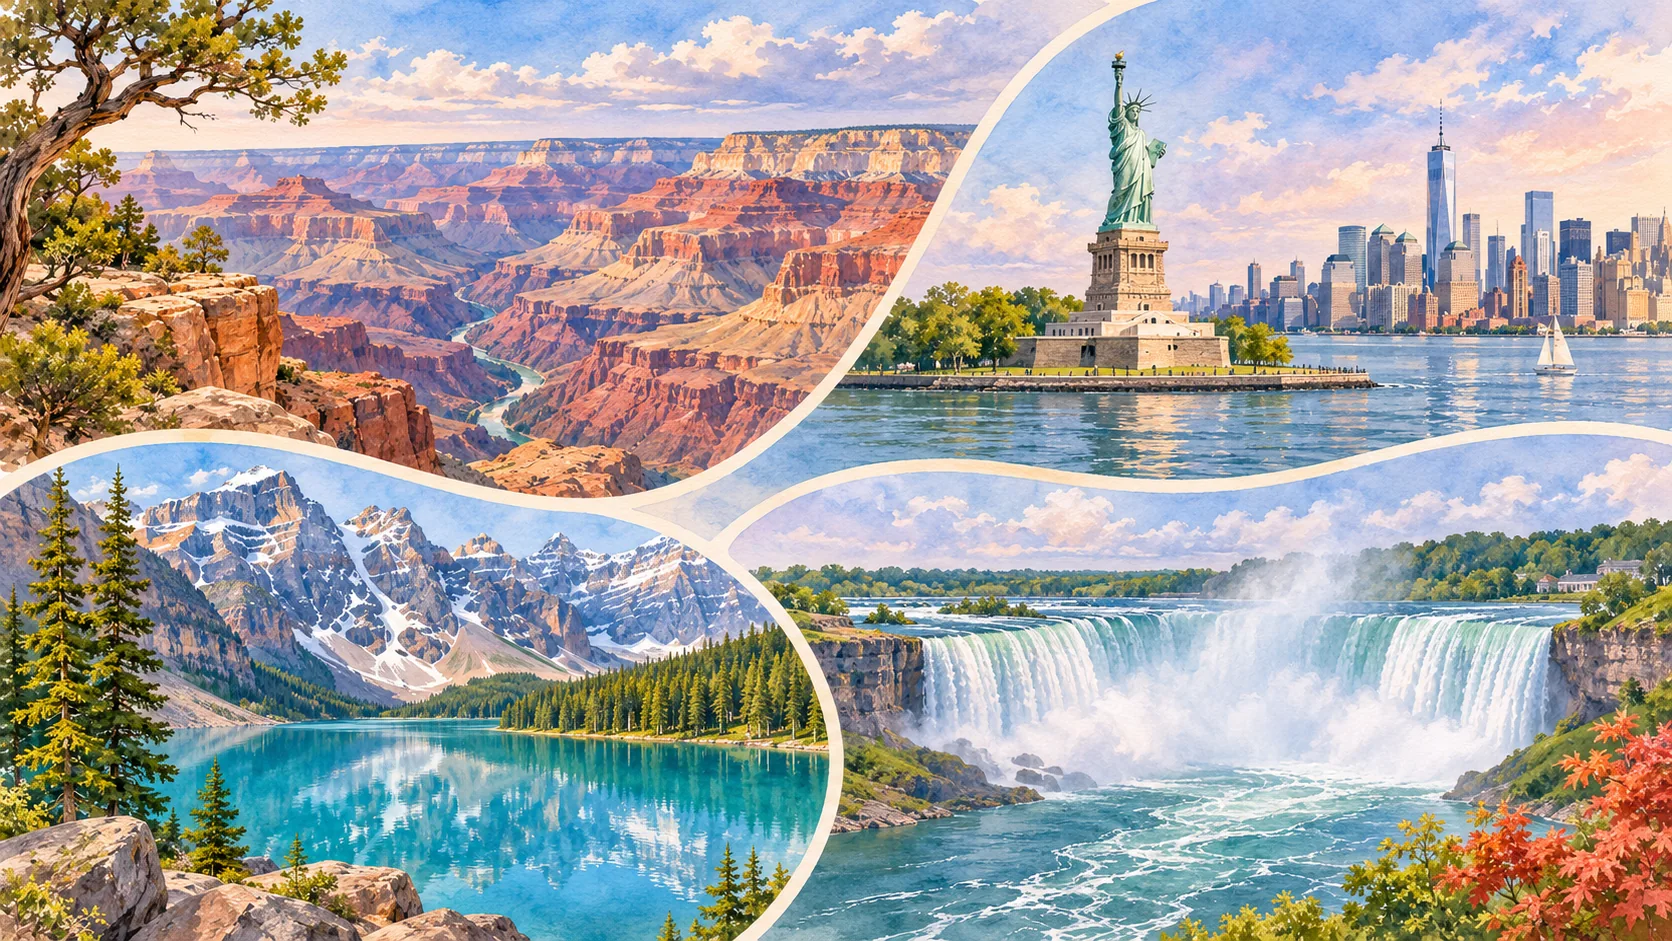
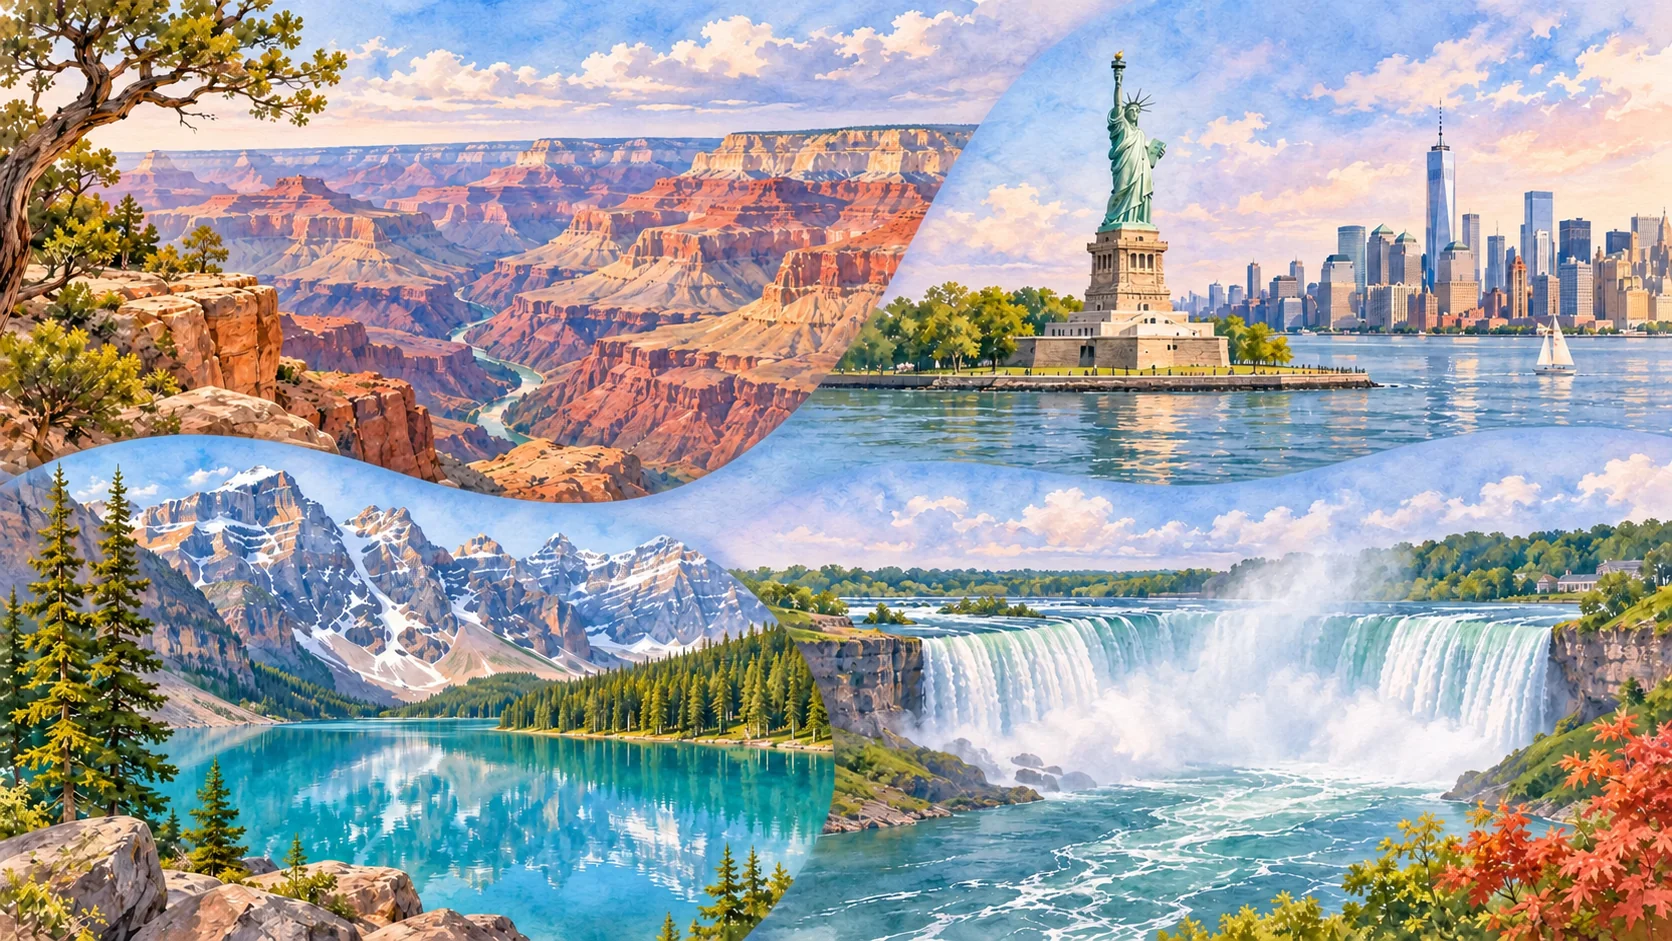
Soften boundaries in the seven homepage regional hero images

diff --git a/assets/js/top.js b/assets/js/top.js
@@ -70,13 +70,13 @@ let themeSets = {};
 // Homepage-only regional montages built from existing approved Country images.
 // First entry is the dominant center; the following four appear around it.
 const heroFiles = [
-  { id: 'asia', labelJa: 'アジア', labelEn: 'ASIA', description: '日本・富士山、インド・タージ・マハル、ベトナム・ハロン湾、ヨルダン・ペトラ', image: 'assets/images/top/regions/top-asia.webp?v=20261101-four-scenes-1' },
-  { id: 'europe', labelJa: 'ヨーロッパ', labelEn: 'EUROPE', description: 'ギリシャ・サントリーニ、イタリア・ヴェネツィア、スイス・アルプス、フランス・パリ', image: 'assets/images/top/regions/top-europe.webp?v=20261101-four-scenes-1' },
-  { id: 'africa', labelJa: 'アフリカ', labelEn: 'AFRICA', description: 'アフリカのサバンナ、ビクトリアの滝、ナミビアの砂丘、マダガスカルのバオバブ', image: 'assets/images/top/regions/top-africa.webp?v=20261101-four-scenes-1' },
-  { id: 'north-america', labelJa: '北米', labelEn: 'NORTH AMERICA', description: 'アメリカ・グランドキャニオン、ニューヨーク、カナダ・ロッキー山脈、ナイアガラの滝', image: 'assets/images/top/regions/top-north-america.webp?v=20261101-four-scenes-1' },
-  { id: 'south-america', labelJa: '南米', labelEn: 'SOUTH AMERICA', description: 'ペルー・マチュピチュ、イグアスの滝、ボリビア・ウユニ塩湖、ブラジル・リオデジャネイロ', image: 'assets/images/top/regions/top-south-america.webp?v=20261101-four-scenes-1' },
-  { id: 'oceania', labelJa: 'オセアニア', labelEn: 'OCEANIA', description: 'オーストラリア・シドニー湾、ニュージーランド・フィヨルド、南太平洋の島々、ウルル', image: 'assets/images/top/regions/top-oceania.webp?v=20261101-four-scenes-1' },
-  { id: 'antarctica', labelJa: '南極', labelEn: 'ANTARCTICA', description: '南極のペンギン、氷河、氷山、雪山', image: 'assets/images/top/regions/top-antarctica.webp?v=20261101-four-scenes-1' }
+  { id: 'asia', labelJa: 'アジア', labelEn: 'ASIA', description: '日本・富士山、インド・タージ・マハル、ベトナム・ハロン湾、ヨルダン・ペトラ', image: 'assets/images/top/regions/top-asia.webp?v=20261103-soft-boundaries-1' },
+  { id: 'europe', labelJa: 'ヨーロッパ', labelEn: 'EUROPE', description: 'ギリシャ・サントリーニ、イタリア・ヴェネツィア、スイス・アルプス、フランス・パリ', image: 'assets/images/top/regions/top-europe.webp?v=20261103-soft-boundaries-1' },
+  { id: 'africa', labelJa: 'アフリカ', labelEn: 'AFRICA', description: 'アフリカのサバンナ、ビクトリアの滝、ナミビアの砂丘、マダガスカルのバオバブ', image: 'assets/images/top/regions/top-africa.webp?v=20261103-soft-boundaries-1' },
+  { id: 'north-america', labelJa: '北米', labelEn: 'NORTH AMERICA', description: 'アメリカ・グランドキャニオン、ニューヨーク、カナダ・ロッキー山脈、ナイアガラの滝', image: 'assets/images/top/regions/top-north-america.webp?v=20261103-soft-boundaries-1' },
+  { id: 'south-america', labelJa: '南米', labelEn: 'SOUTH AMERICA', description: 'ペルー・マチュピチュ、イグアスの滝、ボリビア・ウユニ塩湖、ブラジル・リオデジャネイロ', image: 'assets/images/top/regions/top-south-america.webp?v=20261103-soft-boundaries-1' },
+  { id: 'oceania', labelJa: 'オセアニア', labelEn: 'OCEANIA', description: 'オーストラリア・シドニー湾、ニュージーランド・フィヨルド、南太平洋の島々、ウルル', image: 'assets/images/top/regions/top-oceania.webp?v=20261103-soft-boundaries-1' },
+  { id: 'antarctica', labelJa: '南極', labelEn: 'ANTARCTICA', description: '南極のペンギン、氷河、氷山、雪山', image: 'assets/images/top/regions/top-antarctica.webp?v=20261103-soft-boundaries-1' }
 ];
 
 {

diff --git a/index.html b/index.html
@@ -66,7 +66,7 @@
     
   </style>
   <script src="assets/js/atlas-order.js?v=20261029-1" defer></script>
-  <script src="assets/js/top.js?v=20261102-lazy-images-1" defer></script>
+  <script src="assets/js/top.js?v=20261103-soft-boundaries-1" defer></script>
   <script src="assets/js/map-regions.js?v=20261102-deferred-map-1" defer></script>
   <script src="assets/js/header-scroll.js?v=20260826-2241" defer></script>
 </head>
@@ -102,7 +102,7 @@
 
       <div class="hero-visual" id="hero-visual">
         <div class="hero-collage is-ready" id="hero-collage" role="img" data-region="asia" aria-label="アジアの旅の風景をめぐる水彩コラージュ">
-          <img class="hero-collage__image" src="assets/images/top/regions/top-asia.webp?v=20261101-four-scenes-1" alt="" fetchpriority="high" decoding="async">
+          <img class="hero-collage__image" src="assets/images/top/regions/top-asia.webp?v=20261103-soft-boundaries-1" alt="" fetchpriority="high" decoding="async">
           <span class="hero-collage__region" aria-hidden="true">ASIA</span>
         </div>
         <button class="hero-arrow hero-arrow--prev" type="button" data-hero-step="-1" aria-label="前のビジュアル">‹</button>
